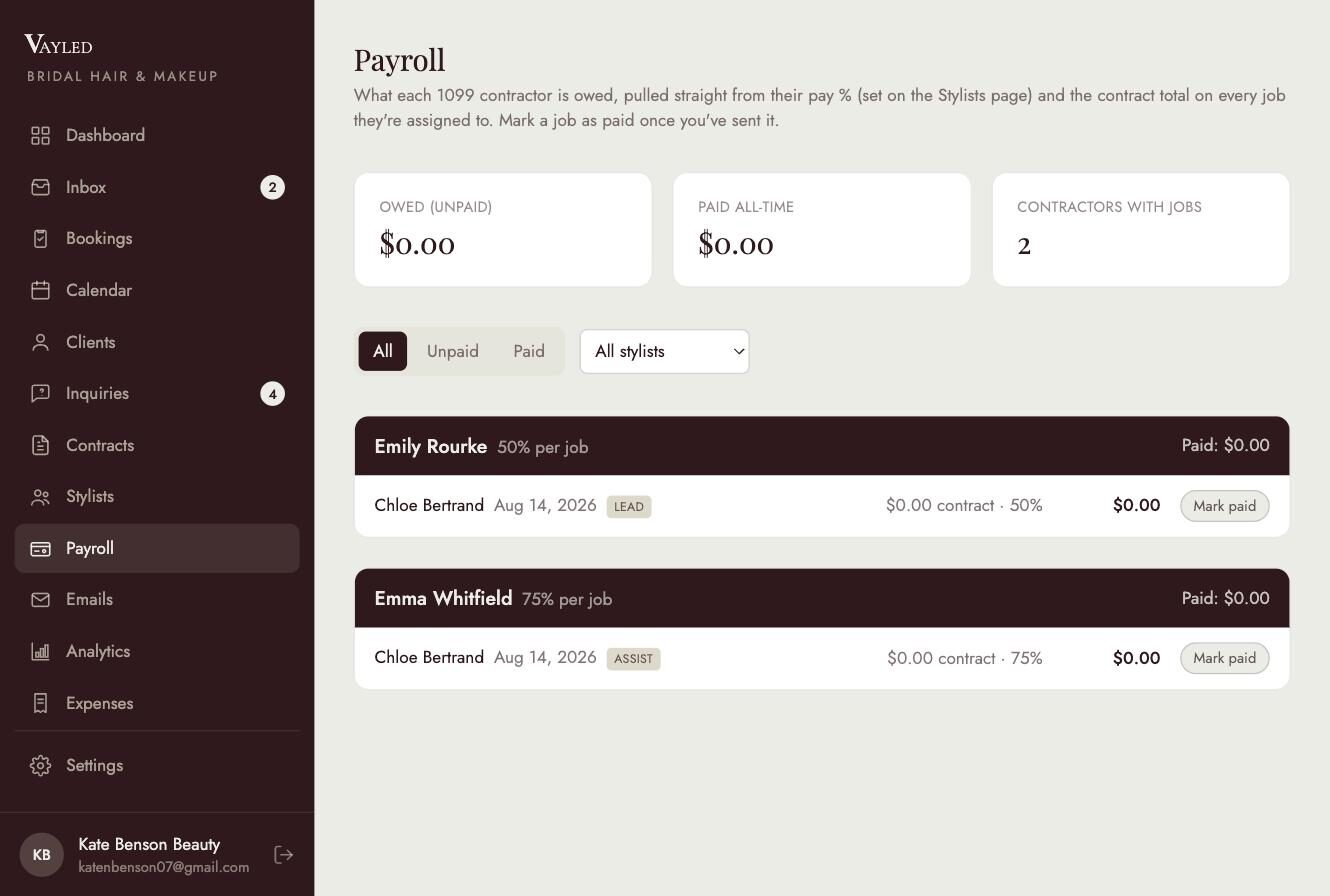
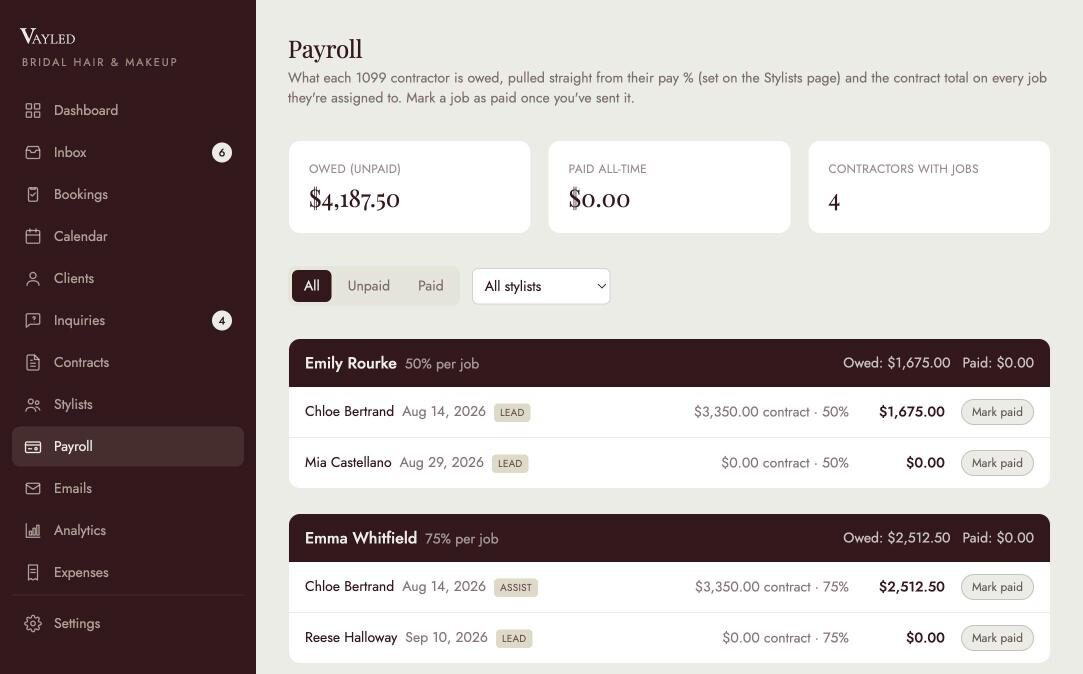
Refresh payroll marketing screenshot

diff --git a/CHANGELOG.md b/CHANGELOG.md
@@ -2,6 +2,10 @@
 
 Running log of changes requested while testing the app. Newest first.
 
+## 2026-08-19 (35)
+
+- **Refreshed payroll marketing screenshot** with real contract totals, owed amounts, and Lead/Assist role badges now that jobs have stylists and contract values assigned.
+
 ## 2026-08-19 (34)
 
 - **Refreshed calendar marketing screenshot** now that jobs have stylists assigned, and updated the Calendar feature copy on /features to call out assigning a lead and an assist stylist to each job.
